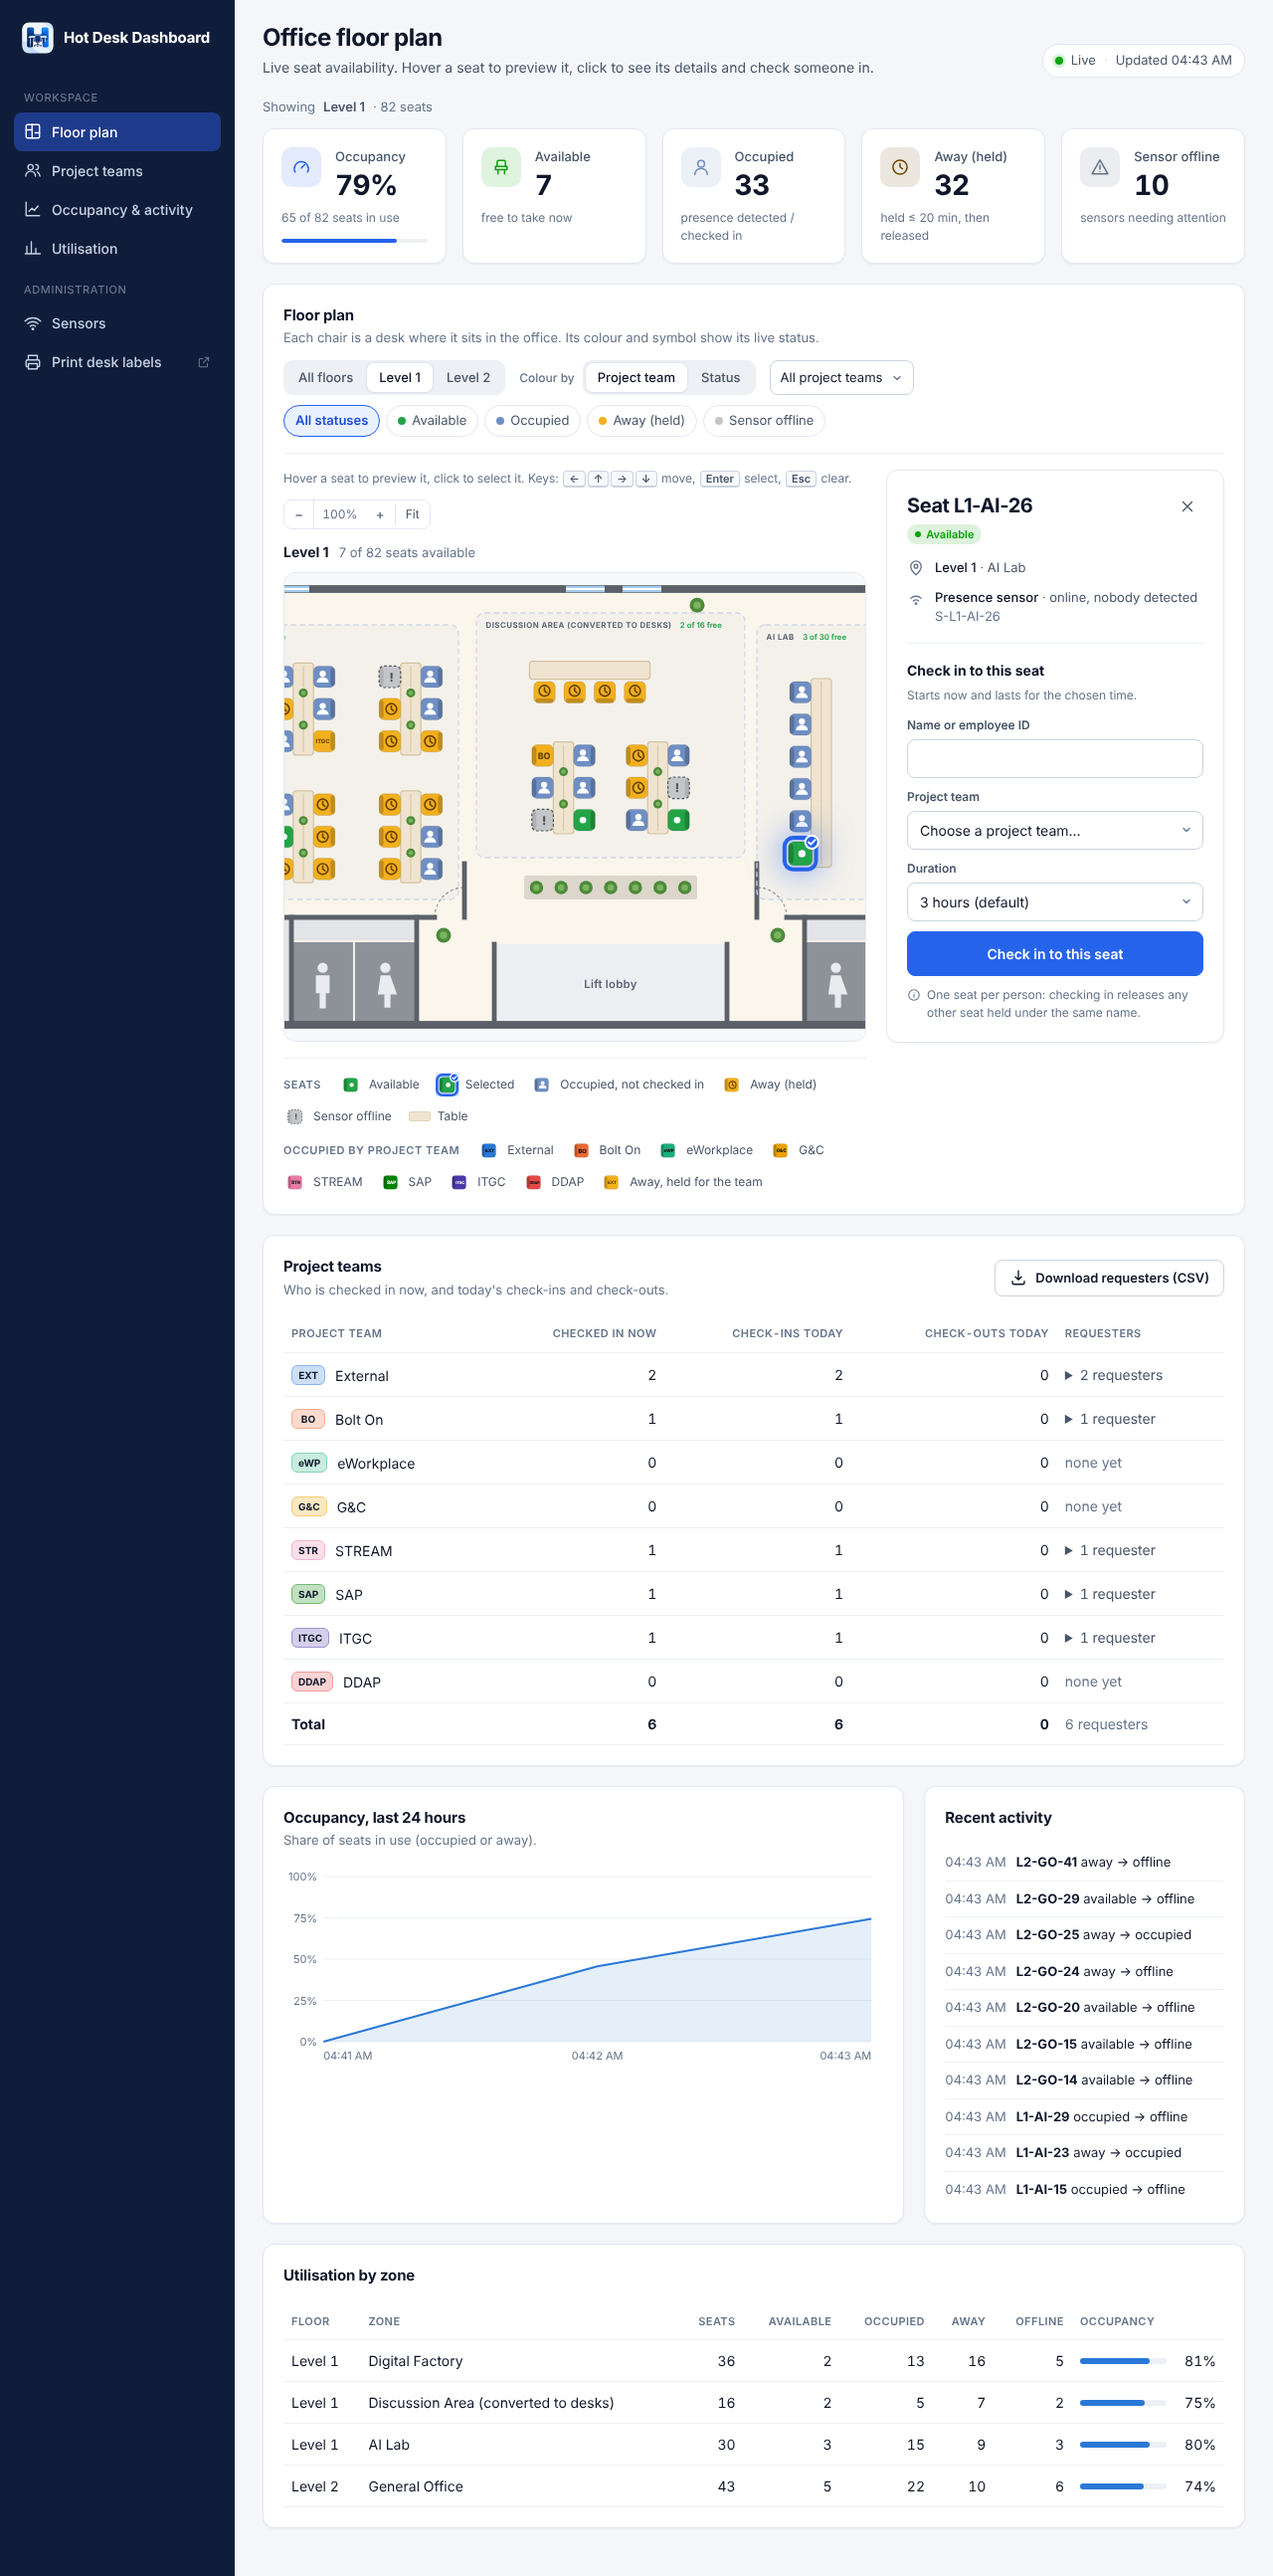
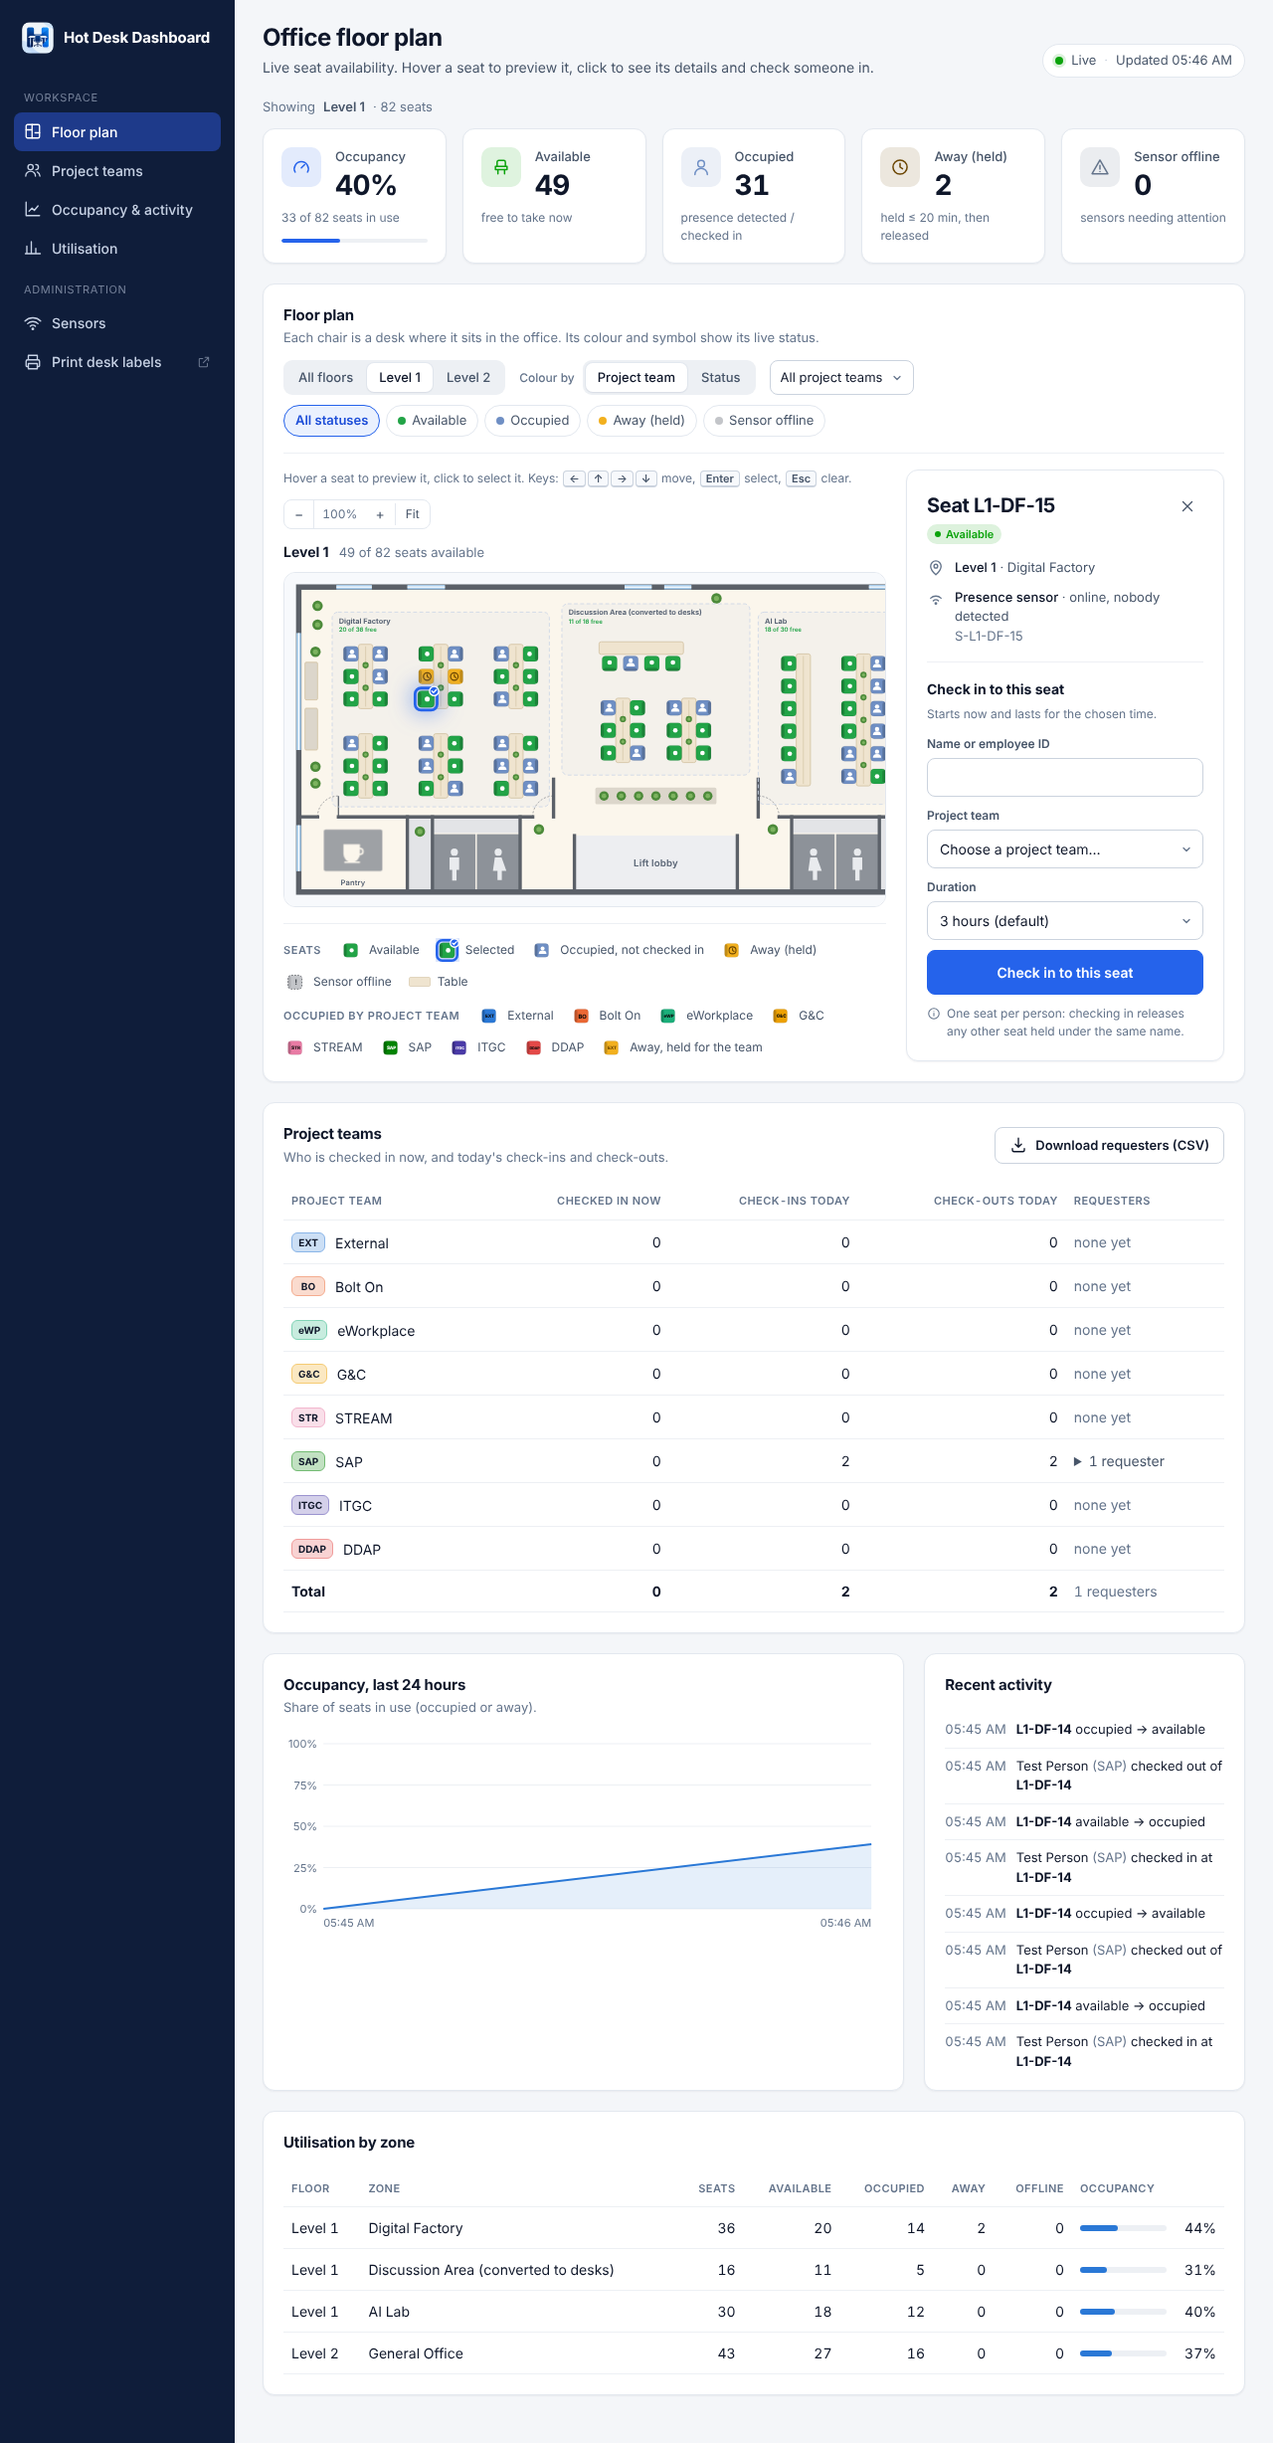
Keep the seat details panel open at all times
With no seat selected the panel shows a "Select a seat" prompt, the free
seats in view and per-zone availability, updated live. The floor plan
now fits the column beside the panel (a smaller minimum seat size with a
mouse; touch keeps larger targets), and zone and room labels are larger
so they stay readable at that size. On narrow screens the summary sits
below the plan and the selected seat still opens as a bottom sheet.

Claude-Session: https://claude.ai/code/session_01LGhQKA2iw4MbRhcQm9t68K

diff --git a/public/index.html b/public/index.html
@@ -194,8 +194,7 @@
   .chipbtn .dot { width: 8px; height: 8px; border-radius: 50%; }
 
   /* ---------- Floor plan ---------- */
-  .planwrap { display: grid; grid-template-columns: minmax(0, 1fr) 0; gap: 0; align-items: start; transition: grid-template-columns 0.24s cubic-bezier(0.2, 0.8, 0.2, 1), gap 0.24s; }
-  .planwrap.has-panel { grid-template-columns: minmax(0, 1fr) 340px; gap: 20px; }
+  .planwrap { display: grid; grid-template-columns: minmax(0, 1fr) 320px; gap: 20px; align-items: start; }
   .fp-tools { display: flex; align-items: center; gap: 12px; margin-bottom: 12px; color: var(--text-muted); font-size: 12px; flex-wrap: wrap; }
   .zoom { display: inline-flex; align-items: center; border: 1px solid var(--border); border-radius: 8px; background: var(--surface); overflow: hidden; }
   .zoom button { border: 0; background: transparent; padding: 5px 10px; cursor: pointer; font-size: 14px; line-height: 1; color: var(--text-secondary); transition: background-color 0.15s; }
@@ -227,8 +226,8 @@
   .fp-room-pantry { fill: var(--fp-floor); }
   .fp-room-wc { fill: var(--fp-wc); stroke: var(--fp-floor); stroke-width: 0.3; }
   .fp-room-lift { fill: var(--fp-lift); }
-  .fp-room-label { font: 600 1.5px var(--font); fill: var(--fp-label); text-anchor: middle; letter-spacing: 0.04px; }
-  .fp-room-label-lg { font-size: 1.9px; }
+  .fp-room-label { font: 600 1.8px var(--font); fill: var(--fp-label); text-anchor: middle; letter-spacing: 0.04px; }
+  .fp-room-label-lg { font-size: 2.3px; }
   .fp-fixture, .fp-fixture-dark { fill: var(--fp-fixture); stroke: var(--fp-table-line); stroke-width: 0.2; }
   .fp-fixture-dark { fill: var(--fp-wc); stroke: none; opacity: 0.85; }
   .fp-icon { fill: var(--fp-floor); stroke: var(--fp-floor); }
@@ -237,8 +236,8 @@
   .fp-plant .leaf { fill: var(--fp-plant); }
   .fp-plant .leaf2 { fill: var(--fp-plant-2); }
   .fp-zone-area { fill: var(--fp-zone); stroke: var(--fp-zone-line); stroke-width: 0.22; stroke-dasharray: 0.9 0.6; }
-  .fp-zone-label { font: 700 1.3px var(--font); fill: var(--fp-label); text-transform: uppercase; letter-spacing: 0.08px; }
-  .fp-zone-count { font-weight: 600; fill: var(--seat-available); text-transform: none; letter-spacing: 0; }
+  .fp-zone-label { font: 700 1.75px var(--font); fill: var(--fp-label); }
+  .fp-zone-count { font: 600 1.45px var(--font); fill: var(--seat-available); }
   .fp-table { fill: var(--fp-table); stroke: var(--fp-table-line); stroke-width: 0.2; }
   .fp-table-line { stroke: var(--fp-table-line); stroke-width: 0.15; }
 
@@ -315,6 +314,19 @@
   /* ---------- Seat panel ---------- */
   .panel { position: sticky; top: 16px; padding: 0; overflow: hidden; }
   .panel-inner { padding: 20px; animation: slide-in 0.2s ease; }
+  .panel-empty { padding: 28px 22px 22px; color: var(--text-secondary); animation: fade-in 0.2s ease; }
+  .panel-empty .big { width: 48px; height: 48px; border-radius: 14px; background: var(--accent-soft); color: var(--accent); display: grid; place-items: center; margin-bottom: 14px; }
+  .panel-empty .big svg { width: 24px; height: 24px; }
+  .panel-empty h3 { margin: 0 0 4px; font-size: 16px; color: var(--text-primary); }
+  .panel-empty p { margin: 0; font-size: 13px; }
+  .panel-empty .stat { margin-top: 18px; padding-top: 16px; border-top: 1px solid var(--grid); font-size: 13px; }
+  .panel-empty .stat b { font-size: 26px; line-height: 1.1; color: var(--seat-available); display: block; font-variant-numeric: tabular-nums; }
+  .zone-avail { list-style: none; margin: 16px 0 0; padding: 0; display: grid; gap: 12px; font-size: 13px; }
+  .zone-avail li { display: grid; grid-template-columns: 1fr auto; gap: 5px 8px; }
+  .zone-avail li > span:nth-child(2) { color: var(--text-muted); font-variant-numeric: tabular-nums; }
+  .zone-avail li b { color: var(--text-primary); font-weight: 600; }
+  .zone-avail .bar { grid-column: 1 / -1; min-width: 0; }
+  .zone-avail .bar > i { background: var(--seat-available); }
   kbd { font: 600 11px var(--font); padding: 0 5px; margin: 0 1px; border: 1px solid var(--border-strong); border-bottom-width: 2px; border-radius: 4px; background: var(--surface-2); color: var(--text-secondary); }
   .phead { display: flex; align-items: flex-start; gap: 10px; }
   .phead h2 { font-size: 20px; margin: 0; letter-spacing: -0.02em; }
@@ -383,13 +395,16 @@
   /* ---------- Responsive ---------- */
   @media (max-width: 1180px) { .kpis { grid-template-columns: repeat(3, minmax(0, 1fr)); } }
   @media (max-width: 1180px) {
-    .planwrap, .planwrap.has-panel { grid-template-columns: minmax(0, 1fr); gap: 0; }
+    .planwrap { grid-template-columns: minmax(0, 1fr); gap: 16px; }
     .panel {
       position: fixed; left: 0; right: 0; bottom: 0; top: auto; z-index: 40; max-height: 78vh; overflow: auto;
       border-radius: 16px 16px 0 0; box-shadow: 0 -12px 32px -8px rgb(15 23 42 / 0.3); transform: translateY(105%);
       transition: transform 0.22s cubic-bezier(0.2, 0.8, 0.2, 1); max-width: 560px; margin: 0 auto;
     }
     .panel.open { transform: none; }
+    /* With nothing selected, the summary sits below the plan instead of as a sheet. */
+    .panel:not(.open) { position: static; transform: none; transition: none; border-radius: 12px; box-shadow: var(--shadow-sm); max-width: none; max-height: none; }
+    .panel:not(.open)::before { display: none; }
     .panel::before { content: ""; display: block; width: 40px; height: 4px; border-radius: 2px; background: var(--border-strong); margin: 10px auto 0; }
   }
   @media (max-width: 900px) {

diff --git a/public/dashboard.js b/public/dashboard.js
@@ -168,6 +168,7 @@ function syncModeButtons() {
 /** Filters changed: restyle seats in place (no rebuild), then refresh counts. */
 function onFiltersChanged() {
   syncFilterControls(); patchAllSeats(); renderKpis(); updateCounts();
+  if (!state.selected) renderPanel();
 }
 
 $('viewMode').addEventListener('click', (e) => {
@@ -217,8 +218,8 @@ function inkOn(hex) {
 // ---------- Floor plan ----------
 // Each floor is one SVG (public/floorplan.js). Seats are its only interactive parts; the
 // office around them is context. Scale: fit the card width, but never below TAP_SCALE
-// (px per plan unit) so chairs stay easy to hit; past that the plan scrolls.
-const MIN_SCALE = 4, TAP_SCALE = 6, FIT_CAP = 8, MAX_SCALE = 18;
+// (MOUSE_SCALE with a mouse) px per plan unit so chairs stay easy to hit; past that the plan scrolls.
+const MIN_SCALE = 3.5, MOUSE_SCALE = 4.2, TAP_SCALE = 6, FIT_CAP = 8, MAX_SCALE = 18;
 let layouts = [];
 let zoom = 1;
 
@@ -241,8 +242,10 @@ function renderPlan() {
 }
 
 function baseScale(fl) {
-  const avail = $('floorplan').clientWidth - 42;
-  return Math.min(FIT_CAP, Math.max(TAP_SCALE, avail / (fl.w + 2)));
+  const avail = $('plan').clientWidth - 24;
+  // Touch needs bigger targets than a mouse; below this size the plan scrolls instead.
+  const min = matchMedia('(pointer: coarse)').matches ? TAP_SCALE : MOUSE_SCALE;
+  return Math.min(FIT_CAP, Math.max(min, avail / (fl.w + 2)));
 }
 function applyScale() {
   $('plan').querySelectorAll('svg.fp').forEach((svg, i) => {
@@ -377,8 +380,8 @@ function select(id) {
     if (el) { patchSeat(el); updateRoving(el.closest('.fp-zone')); }
   }
   renderPanel();
-  // The panel narrows the plan as it opens: keep the chosen seat in sight.
-  if (id) setTimeout(() => revealSeat(id), 260);
+  // If the plan is scrolled or zoomed, bring the chosen seat into sight.
+  if (id) revealSeat(id);
 }
 
 $('plan').addEventListener('click', (e) => {
@@ -488,8 +491,13 @@ function renderPanel() {
   const panel = $('panel');
   const s = state.selected && state.seats.get(state.selected);
   panel.classList.toggle('open', Boolean(s));
-  $('planwrap').classList.toggle('has-panel', Boolean(s));
-  if (!s) { panel.innerHTML = ''; panelKey = ''; return; }
+  if (!s) {
+    const html = idlePanel();
+    if (panelKey === 'idle') panel.querySelector('.panel-empty').outerHTML = html;
+    else panel.innerHTML = html;
+    panelKey = 'idle';
+    return;
+  }
   // The form only re-renders when what it does changes, so live updates never wipe typed input.
   const mode = s.checkedInBy ? `manage:${s.checkedInBy}` : 'checkin';
   const key = `${s.id}|${mode}`;
@@ -502,6 +510,24 @@ function renderPanel() {
   panel.innerHTML = `<div class="panel-inner"><div data-details>${details}</div>${s.checkedInBy ? manageForm(s) : checkinForm(s)}</div>`;
   const form = panel.querySelector('form');
   form?.addEventListener('submit', onPanelSubmit);
+}
+
+/** Shown while no seat is selected: what to do, and where seats are free right now. */
+function idlePanel() {
+  const c = countsFor(inScope);
+  const floors = (state.summary?.floors ?? []).filter((f) => !state.floor || f.id === state.floor);
+  const zones = floors.flatMap((f) => f.zones.map((z) => {
+    const zc = countsFor((s) => s.floor === f.id && s.zone === z.id && inScope(s));
+    return { label: floors.length > 1 ? `${f.name} · ${z.name}` : z.name, ...zc };
+  })).filter((z) => z.total);
+  return `<div class="panel-empty">
+    <div class="big">${ICON.pointer}</div>
+    <h3>Select a seat</h3>
+    <p>Click a chair on the plan to see its details and check someone in.</p>
+    <div class="stat"><b>${c.available}</b>of ${c.total} seats available${state.floor ? ' on this floor' : ''}</div>
+    ${zones.length ? `<ul class="zone-avail">${zones.map((z) => `<li><span>${esc(z.label)}</span><span><b>${z.available}</b> / ${z.total}</span>
+      <div class="bar"><i style="width:${pct(z.total ? z.available / z.total : 0)}"></i></div></li>`).join('')}</ul>` : ''}
+  </div>`;
 }
 
 function panelDetails(s) {
@@ -797,7 +823,7 @@ function connect() {
     const el = $('plan').querySelector(`[data-seat="${CSS.escape(s.id)}"]`);
     if (el) { patchSeat(el, s); updateRoving(el.closest('.fp-zone')); }
     updateCounts(); renderKpis();
-    if (state.selected === s.id) renderPanel();
+    if (state.selected === s.id || !state.selected) renderPanel();
     $('noMatch').hidden = [...state.seats.values()].some((x) => inFloor(x) && matches(x));
     refreshSummarySoon();
   });

diff --git a/public/floorplan.js b/public/floorplan.js
@@ -22,7 +22,7 @@ const FloorPlan = (() => {
   const SIDE_GAP = 0.8;    // between chairs that sit side by side without a table between
   const COUNTER = 3.0;     // depth of a counter in front of a row of chairs
   const COUNTER_GAP = 0.4;
-  const LABEL = 3.6;       // zone label strip
+  const LABEL = 5.6;       // zone label strip: name, then free count
   const PAD = 2.6;         // padding inside a zone
 
   const r1 = (n) => Math.round(n * 100) / 100;
@@ -257,7 +257,8 @@ const FloorPlan = (() => {
     const zones = fl.zones.map((z) => `
       <g class="fp-zone" role="group" aria-label="${esc(z.name)}" data-zone="${esc(fl.id)}|${esc(z.id)}">
         <rect class="fp-zone-area" x="${z.box.x}" y="${z.box.y}" width="${z.box.w}" height="${z.box.h}" rx="1.4"/>
-        <text class="fp-zone-label" x="${r1(z.box.x + 1.6)}" y="${r1(z.box.y + 2.5)}">${esc(z.name)}<tspan class="fp-zone-count" dx="1.4" data-zone-count="${esc(fl.id)}|${esc(z.id)}"></tspan></text>
+        <text class="fp-zone-label" x="${r1(z.box.x + 1.6)}" y="${r1(z.box.y + 2.7)}">${esc(z.name)}</text>
+        <text class="fp-zone-count" x="${r1(z.box.x + 1.6)}" y="${r1(z.box.y + 4.7)}" data-zone-count="${esc(fl.id)}|${esc(z.id)}"></text>
         <g transform="translate(${z.ox} ${z.oy})">
           ${z.layout.tables.map(tableMarkup).join('')}
           ${z.layout.plants.map((pt) => plantMarkup(pt, 0.6)).join('')}
